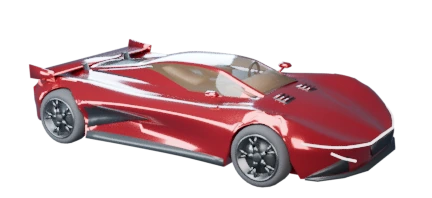
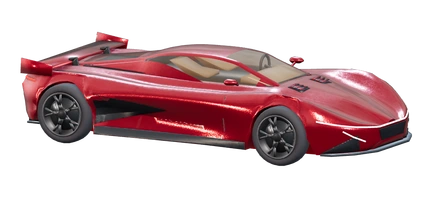
art(garage): reshoot the Vantaire GT car card at a low angle

diff --git a/tests/crimson-gt-browser.spec.js b/tests/crimson-gt-browser.spec.js
@@ -456,16 +456,22 @@ for (const viewport of [{ width: 390, height: 844 }, { width: 844, height: 390 }
           ctx.drawImage(img, 0, 0);
           const { data } = ctx.getImageData(0, 0, canvas.width, canvas.height);
           let clipped = 0;
+          let minX = canvas.width, maxX = -1;
           for (let y = 0; y < canvas.height; y++) {
             for (let x = 0; x < canvas.width; x++) {
+              if (data[4 * (y * canvas.width + x) + 3] <= 16) continue;
+              minX = Math.min(minX, x);
+              maxX = Math.max(maxX, x);
               if (x >= 4 && y >= 4 && x < canvas.width - 4 && y < canvas.height - 4) continue;
-              if (data[4 * (y * canvas.width + x) + 3] > 16) clipped++;
+              clipped++;
             }
           }
           return { left, right, height, imageLeft: image.left, imageRight: image.right,
-            imageWidth: image.width, imageBottom: image.bottom, nameTop: name.top, clipped };
+            imageWidth: image.width, imageBottom: image.bottom, nameTop: name.top, clipped,
+            artFill: (maxX - minX + 1) / canvas.width };
         });
         expect(bounds.clipped).toBe(0);
+        if (id === 'crimson-gt') expect(bounds.artFill).toBeGreaterThanOrEqual(0.9);
         expect(bounds.height).toBeGreaterThanOrEqual(44);
         expect(bounds.left).toBeGreaterThanOrEqual(0);
         expect(bounds.right).toBeLessThanOrEqual(viewport.width);
